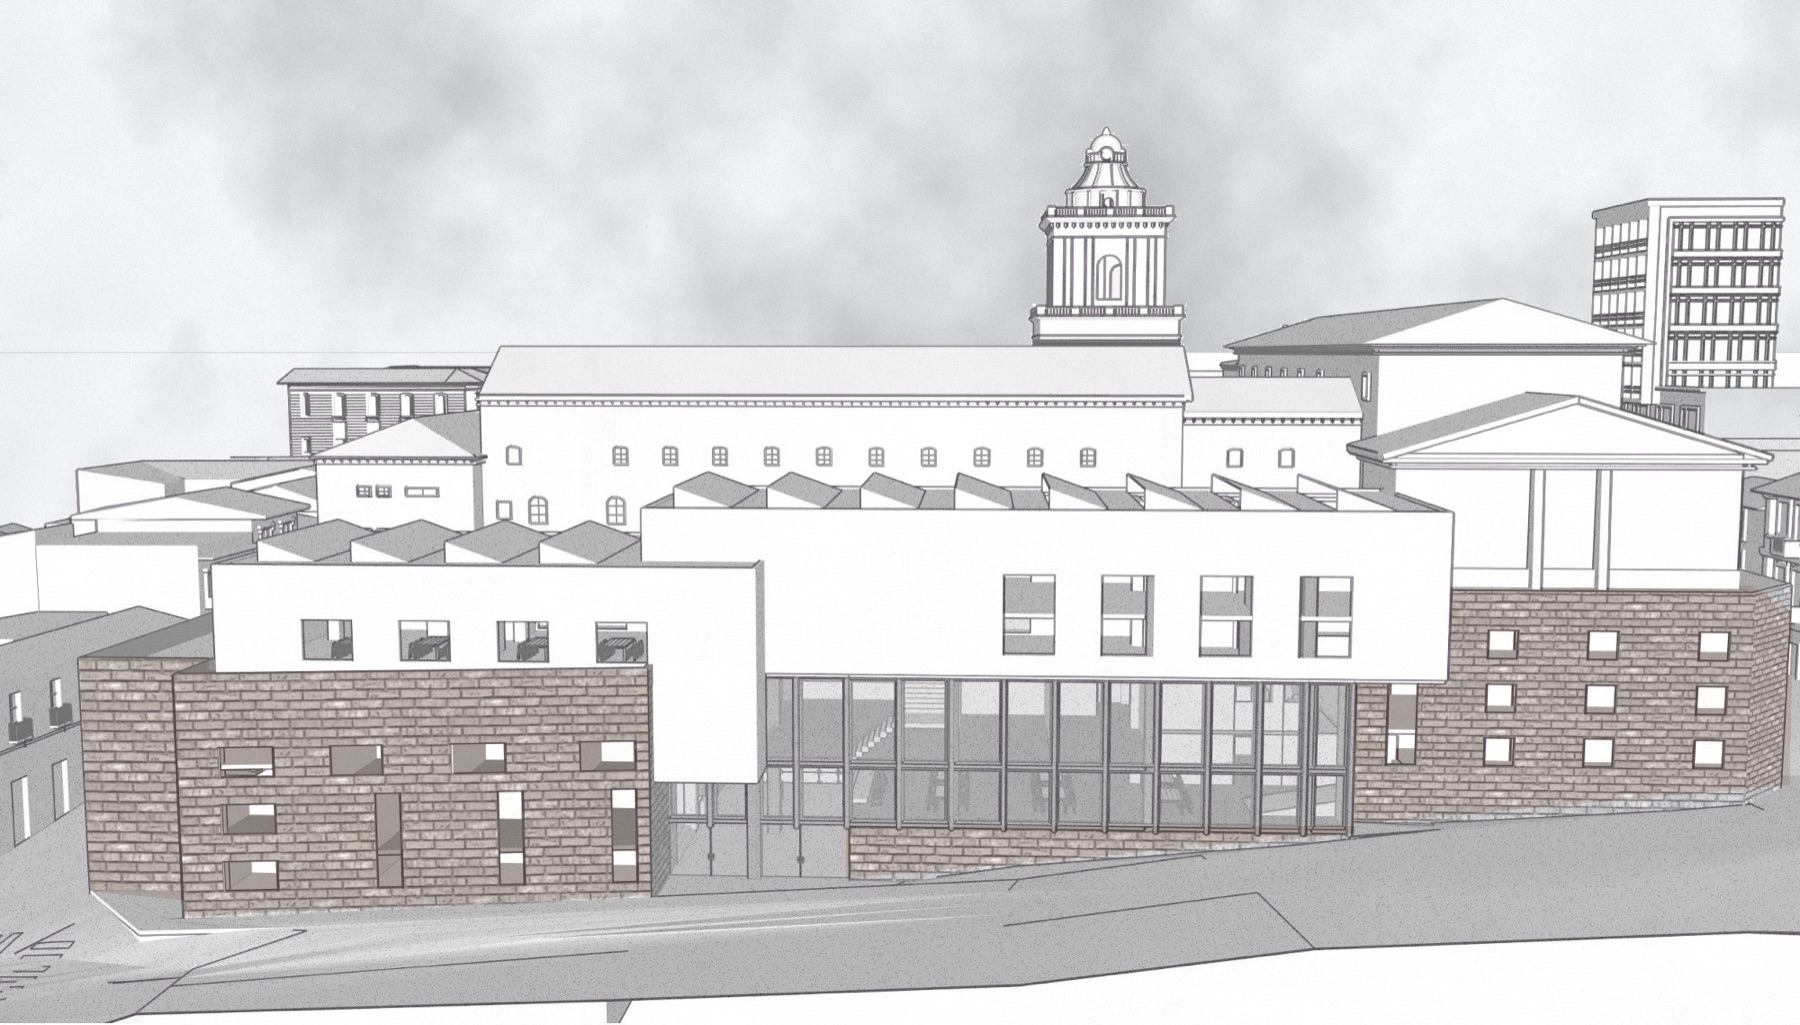
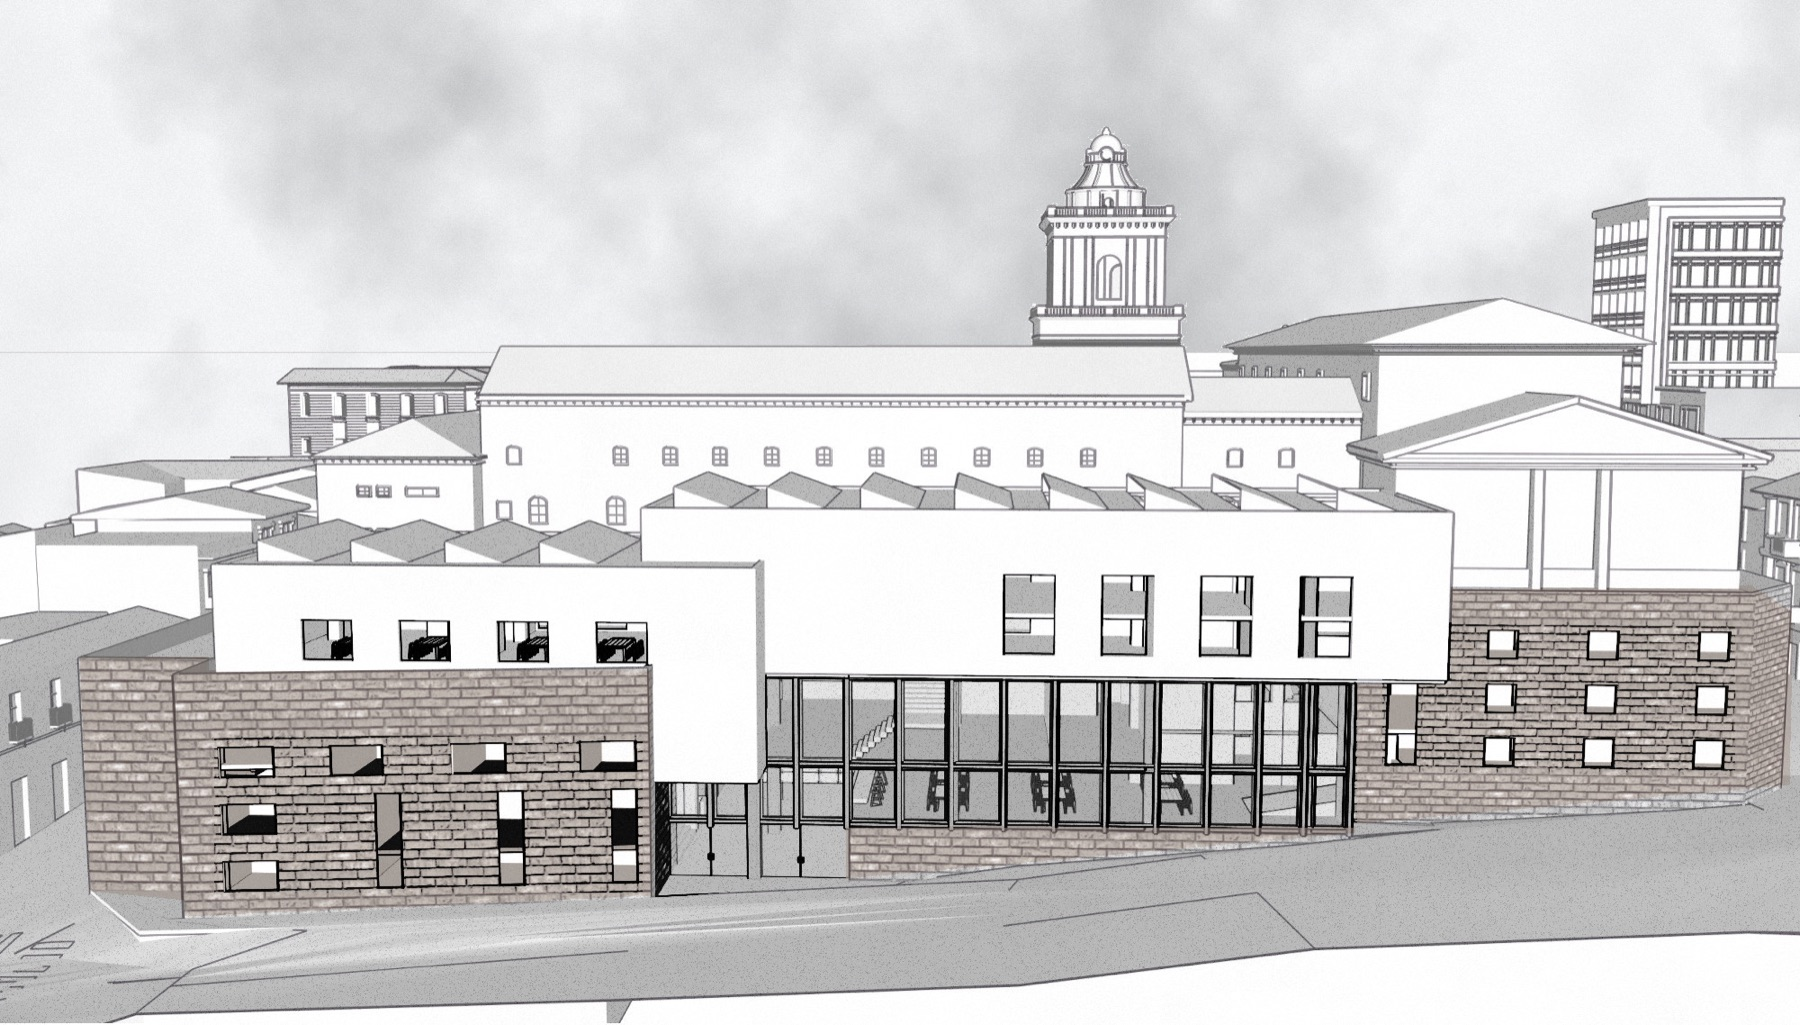
Inicio: perfilería negra en las ventanas de la Facultad

diff --git a/CLAUDE.md b/CLAUDE.md
@@ -78,7 +78,7 @@ Sitio en vivo: Vercel, desplegado automáticamente desde `main` de https://githu
 - **Menú** a pantalla completa: **PROYECTOS** (Remodelación YM + obras de Arq. Buró), **DISEÑOS** (los 6 proyectos universitarios, presentados sin referencia a la universidad), SOBRE MÍ, CONTACTO.
 - **Inicio** = franjas horizontales a todo el ancho, **una por proyecto** (lista `franjas` en App.jsx; `pos` = parte visible de la foto). Alto: computadora `clamp(260px, 25vw, 440px)` (≈360 px a 1440 px; Joaquín las veía muy cortadas con 230), celular 230 px. B/N; al pasar el mouse, color + nombre + rol ("Jefe de obra", "Diseño y dirección de obra", "Diseño"); en celular el nombre se ve siempre con sombra inferior. Se probó un mosaico de tamaños distintos y **Joaquín prefirió las franjas horizontales**.
 - **Orden (pedido por Joaquín)**: Remodelación YM, Casa JC, FR, AJ, JV, LT, BR, Colegio Mine, Mundaneum Beirut, Galería-Talleres, Edificio Nexo, Facultad, Biblioteca, Centro Comunitario. Desde la sesión 4 el menú, las grillas y "proyecto anterior / siguiente" siguen este mismo orden (es el orden de las listas en `proyectos.js`).
-- Franja de la **Facultad** (2026-11-17, Joaquín la veía "como un dibujo" y la quería con el estilo de Mundaneum/Centro Comunitario): `disenos/facultad-arquitectura-inicio.jpg` = vista del conjunto (`facultad-arquitectura/01.jpg`) pasada a ilustración con `~/Desktop/pdf-tools/ilustra2.mjs` (cielo de acuarela, contornos negros → líneas grises finas por cierre morfológico, tonos aclarados, ladrillo cálido #b8906c, grano y punteado de papel; semillas `60,440;1990,470` para el suelo blanco de SketchUp; `linea` 0.3, `ladrillo` #b4a194 (piedra grisácea), `fuerzaLadrillo` 0.5 (probados: #c49c80/0.5 "demasiado claro", #b07a5a/0.8 "demasiado llamativo", #bc9378/0.55 "aún muy intenso, más gris"), con el ladrillo marcado a mano en `poligonos` [[[88,730],[232,730],[232,745],[724,745],[724,995],[205,1018],[205,1000],[100,990]],[[940,918],[1506,918],[1506,925],[940,976]],[[1612,655],[1945,650],[1992,680],[1988,872],[1506,915],[1506,760],[1612,760]]] sobre la imagen de 2000 px), 1800 px, `pos` 50% 60%. **Color de la piedra muy sutil** (pedido de Joaquín): **en reposo, blanco y negro como las demás** (Joaquín no quiere color sin el mouse); al pasar el mouse, el color de la piedra, liviano. (Existe el campo opcional `gris` en `franjas` → variable CSS `--gris`, hoy sin uso.) Se descartó Higgsfield: Joaquín pidió hacerla sin servicios externos. Franja de **Galería-Talleres** = sección 2 (`disenos/galeria-talleres-inicio.jpg`, recorte de la lámina `[.662,.79,.883,.912]`, `pos` 50% 45%), pedido de Joaquín el 2026-11-16; solo en el inicio: la galería y la portada de la grilla de Diseños siguen con la maqueta. Portada de **Mundaneum** = render de la fachada de arcos con la mezquita y las ruinas romanas (recorte de `mundaneum-beirut/01.jpg`, 74,206,1856×846 → 1600×729).
+- Franja de la **Facultad** (2026-11-17, Joaquín la veía "como un dibujo" y la quería con el estilo de Mundaneum/Centro Comunitario): `disenos/facultad-arquitectura-inicio.jpg` = vista del conjunto (`facultad-arquitectura/01.jpg`) pasada a ilustración con `~/Desktop/pdf-tools/ilustra2.mjs` (cielo de acuarela, contornos negros → líneas grises finas por cierre morfológico, tonos aclarados, ladrillo cálido #b8906c, grano y punteado de papel; semillas `60,440;1990,470` para el suelo blanco de SketchUp; `linea` 0.3, `ladrillo` #b4a194 (piedra grisácea), `fuerzaLadrillo` 0.5 (probados: #c49c80/0.5 "demasiado claro", #b07a5a/0.8 "demasiado llamativo", #bc9378/0.55 "aún muy intenso, más gris"), con el ladrillo marcado a mano en `poligonos` [[[88,730],[232,730],[232,745],[724,745],[724,995],[205,1018],[205,1000],[100,990]],[[940,918],[1506,918],[1506,925],[940,976]],[[1612,655],[1945,650],[1992,680],[1988,872],[1506,915],[1506,760],[1612,760]]] sobre la imagen de 2000 px; **perfilería de las ventanas en negro** (pedido de Joaquín) con `negros` [[[848,750],[1508,750],[1508,920],[940,920],[940,980],[728,998],[728,866],[848,866]],[[328,683],[724,683],[724,740],[328,740]],[[1108,634],[1508,634],[1508,734],[1108,734]],[[238,818],[714,818],[714,992],[238,992]],[[1536,692],[1928,692],[1928,858],[1536,858]]] y `umbralNegro` 100), 1800 px, `pos` 50% 60%. **Color de la piedra muy sutil** (pedido de Joaquín): **en reposo, blanco y negro como las demás** (Joaquín no quiere color sin el mouse); al pasar el mouse, el color de la piedra, liviano. (Existe el campo opcional `gris` en `franjas` → variable CSS `--gris`, hoy sin uso.) Se descartó Higgsfield: Joaquín pidió hacerla sin servicios externos. Franja de **Galería-Talleres** = sección 2 (`disenos/galeria-talleres-inicio.jpg`, recorte de la lámina `[.662,.79,.883,.912]`, `pos` 50% 45%), pedido de Joaquín el 2026-11-16; solo en el inicio: la galería y la portada de la grilla de Diseños siguen con la maqueta. Portada de **Mundaneum** = render de la fachada de arcos con la mezquita y las ruinas romanas (recorte de `mundaneum-beirut/01.jpg`, 74,206,1856×846 → 1600×729).
 - **Rutas**: `#/` · `#/proyectos` y `#/disenos` (grilla de portadas) · `#/p/<slug>` = **todas las fotos del proyecto en grilla de 3 columnas** (lo que abre cada franja y el menú; B/N, color y descripción al pasar) · `#/p/<slug>/<n>` = al hacer clic en una foto: foto n grande (clic → visor a pantalla completa), ficha "campo > valor" a la derecha, miniaturas abajo, resumen debajo; la dirección se actualiza al cambiar de foto; al pie: ‹ proyecto anterior · TODAS LAS FOTOS · siguiente › · `#/sobre-mi` · `#/contacto`.
 - **Fichas**: cada dato en su línea, etiqueta gris con dos puntos arriba ("Tipo:", "Ubicación:", "Año:", "Diseño y dirección de obra:") y valor blanco debajo; grupos separados por líneas finas (`<dl class="ficha-grupo">`; pedido de Joaquín, antes era "campo > valor" con "-"). Datos: tipo, ubicación, año; obras: "Diseño: Diez + Muller · Construcción: Arq. Buró · Dirección de obra: Joaquín Andrade" (antes "jefe de obra"; Joaquín pidió "Dirección de obra" en los proyectos el 2026-11-16; también es el rol en las franjas del inicio); YM: tipo "Remodelación", ubicación "Oyambarillo, Quito, Ecuador", 2025, "diseño y dirección de obra > Joaquín Andrade" + descripción de 3 párrafos escrita por Joaquín (no reescribirla; `resumen` puede ser un texto o una lista de párrafos); diseños: "diseño > Joaquín Andrade", **excepto el Centro Comunitario** (`coautoria: true`, sin crédito de diseño).
 - El **comparador obra/terminado** (Casa AJ) está en la página `#/p/casa-aj/<n>`, debajo del resumen.
